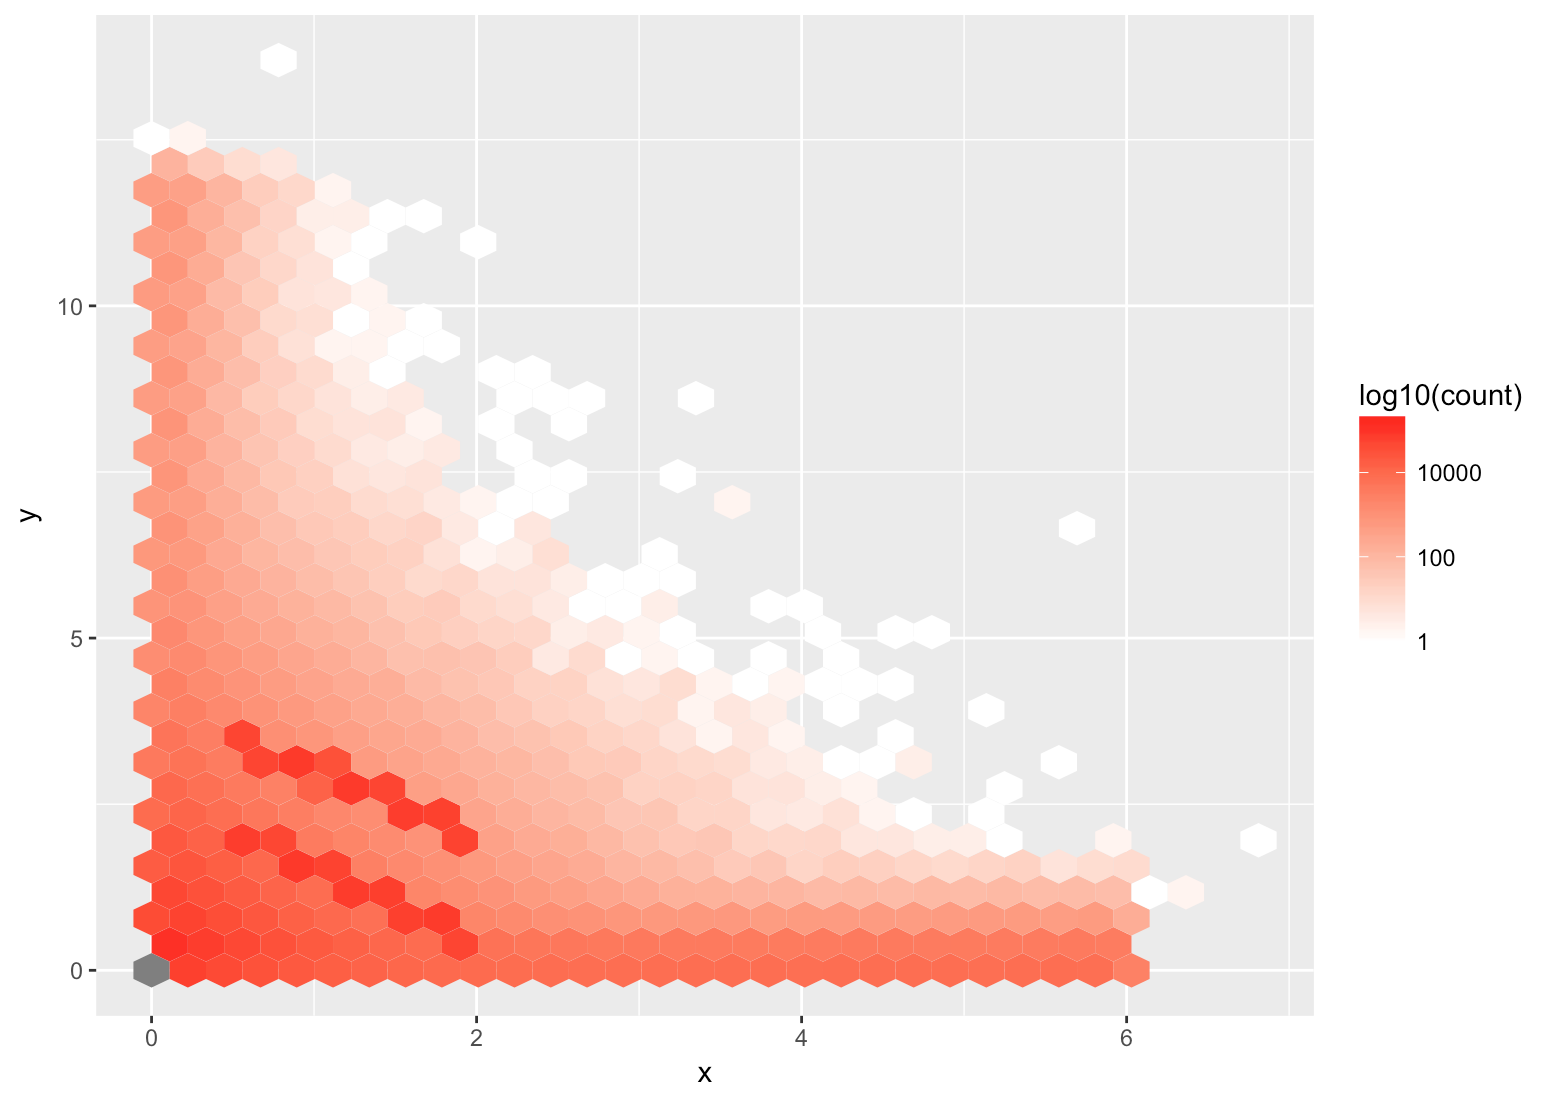
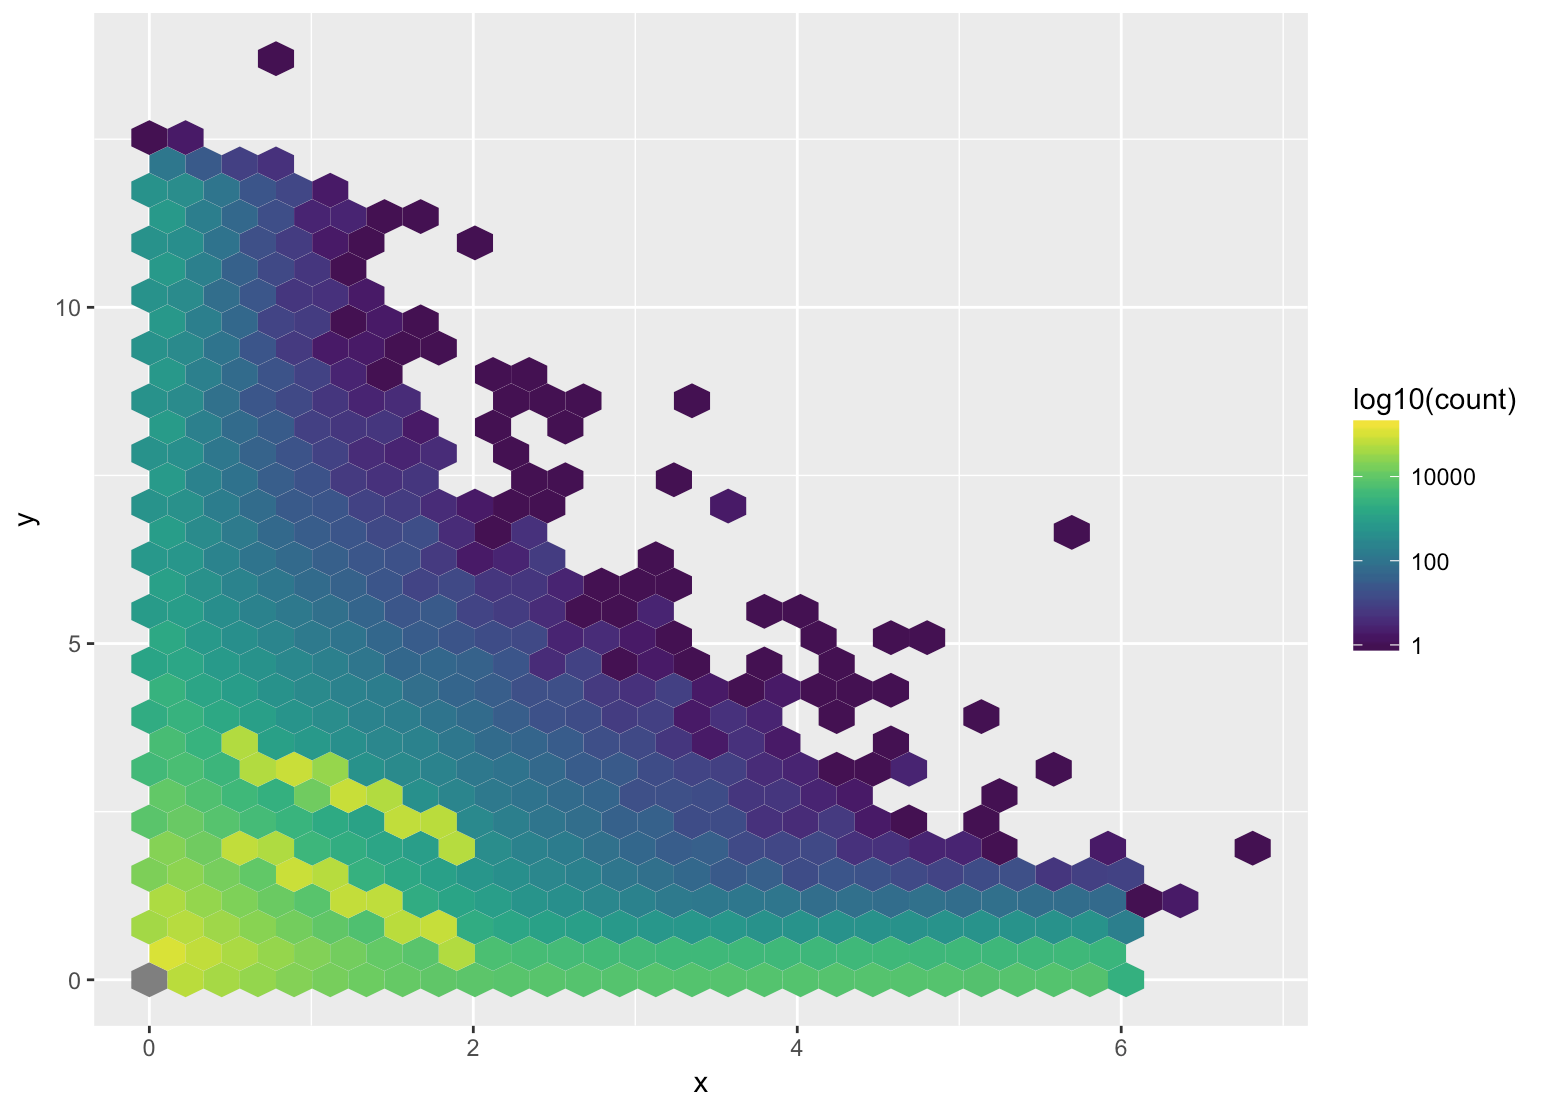
change colours in hex bin plot

diff --git a/_posts/2017-02-26-When-Scatter-Plot-doesn't-work.md b/_posts/2017-02-26-When-Scatter-Plot-doesn't-work.md
@@ -14,6 +14,7 @@ So, here's a scatter plot of the generated two variables:
 
 ``` r
 library(ggplot2)
+library(viridis)
 
 ggplot() + 
     geom_point(aes(x = x, y = y), 
@@ -40,9 +41,11 @@ Here's an alternative to scatter plots. Let's try to use [Hex Bins](http://docs.
 ``` r
 ggplot() + 
     stat_binhex(aes(x = x, y = y)) +
-    scale_fill_gradient(low='white', high='red', trans = 'log10', 
-                        limits=c(1, 200000), name = 'log10(count)'
-                        )
+    scale_fill_gradientn(colours = viridis(256), 
+                         trans = 'log10', 
+                         limits=c(1, 200000),
+                         name = 'log10(count)'
+                         )
 ```
 
 ![](http://delta1epsilon.github.io/assets/hexbin.png)
